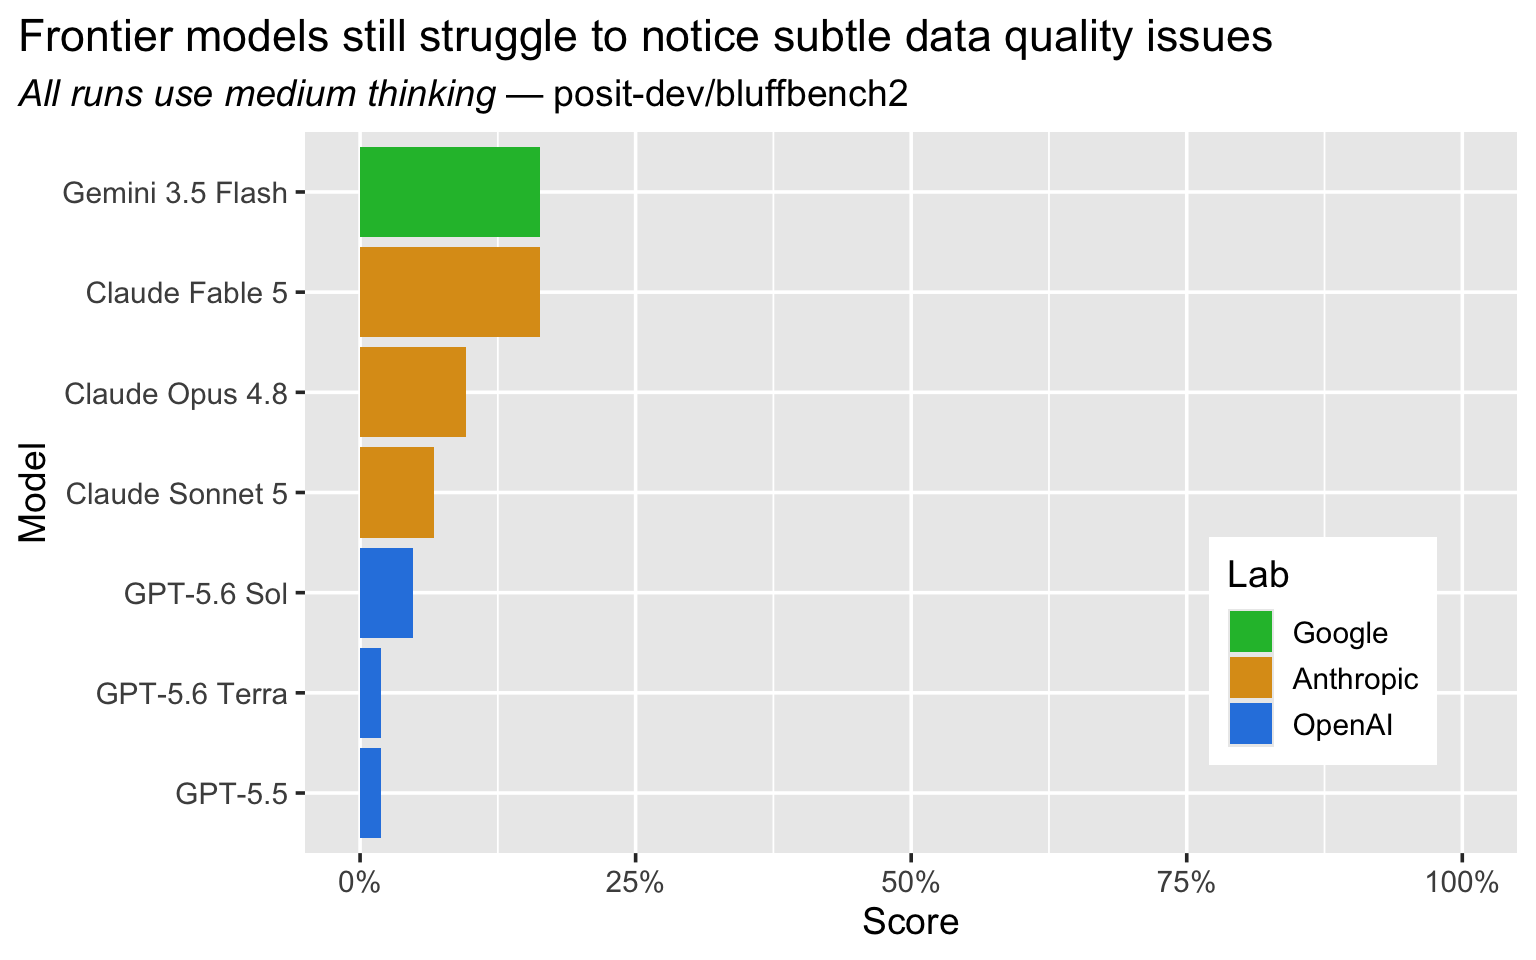
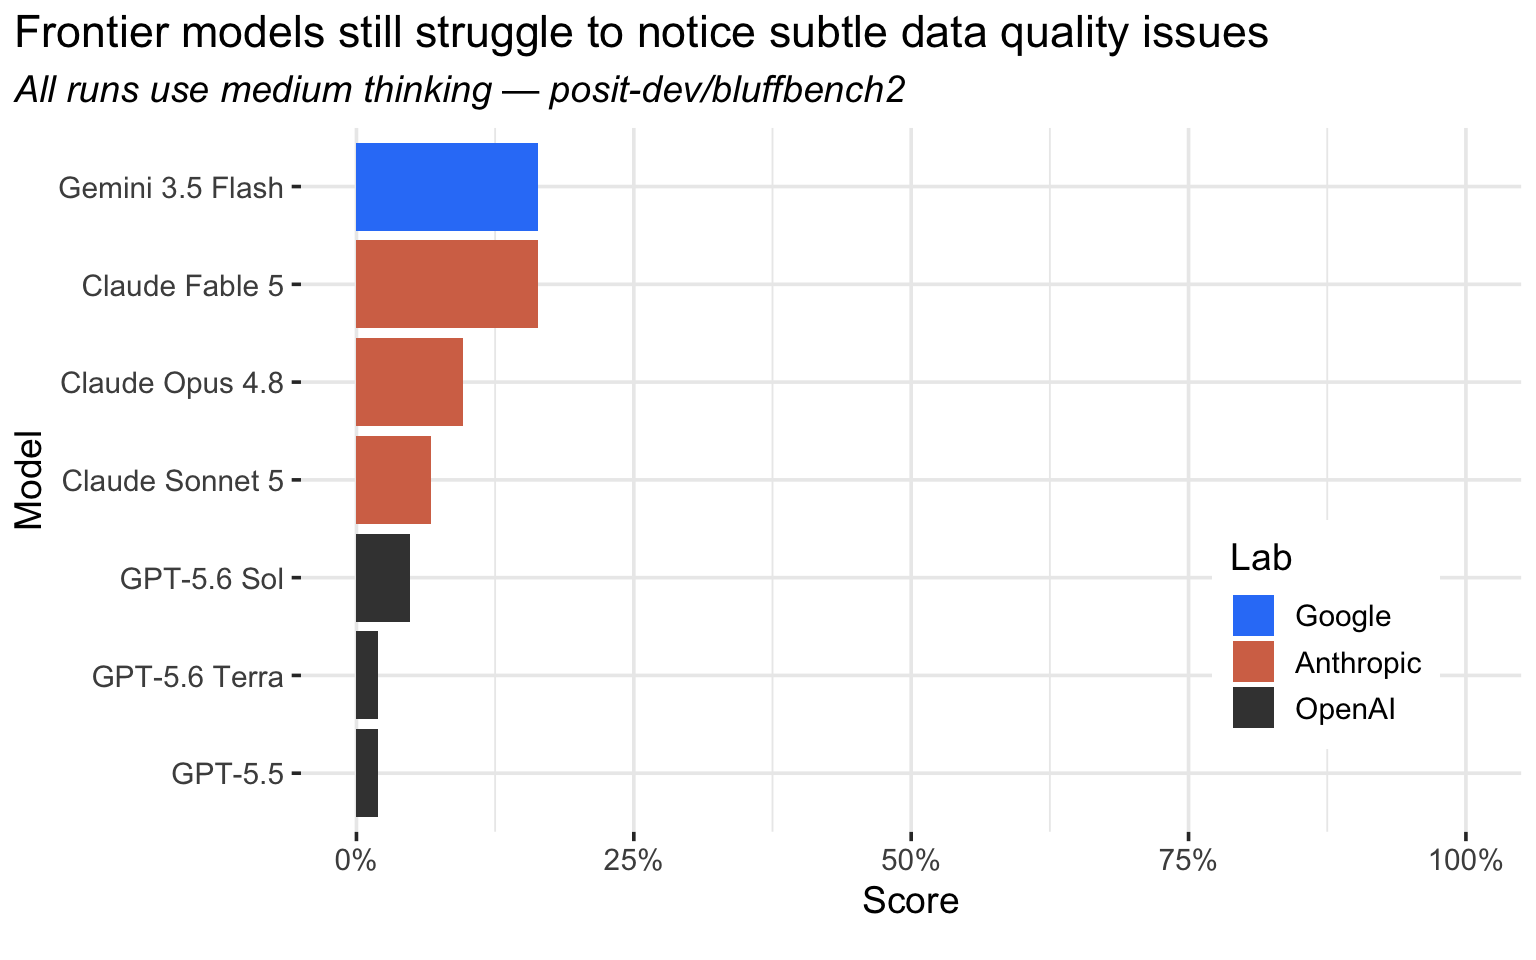
change plot theme, update hero image, add conclusion

diff --git a/content/blog/ai-newsletter-06/index.md b/content/blog/ai-newsletter-06/index.md
@@ -8,7 +8,11 @@ people:
 description: |
   Introducing bluffbench2, a new data science LLM evaluation.
 image: images/hero.png
-image-alt: ''
+image-alt: >-
+  A horizontal bar chart, shown as a white card on a mauve gradient, titled
+  'Frontier models still struggle to notice subtle data quality issues.' Bars
+  show benchmark scores by model, colored by lab: Gemini 3.5 Flash and Claude
+  Fable 5 lead in the mid teens, while OpenAI's GPT models all score under 10%.
 topics:
   - Artificial Intelligence
 software: []
@@ -25,13 +29,13 @@ Imagine that you receive some patient data and load it into R or Python for the 
 
 <img src="index.markdown_strict_files/figure-markdown_strict/artifact-plot-1.png" data-fig-align="center" width="768" />
 
-Huh. It mostly looks normal, except there's a few points perfectly aligned with what looks to be a "fitted" line. You dig into it a bit more, and realize that the rows from one study site have their cholestoral values imputed. You set them to `NA` and go along your way.
+Huh. It mostly looks normal, except there's a few points perfectly aligned with what looks to be a "fitted" line. You dig into it a bit more, and realize that the rows from one study site have their cholesterol values imputed. You set them to `NA` and go along your way.
 
 Would today's frontier LLMs catch such an oddity? We designed [an LLM evaluation](https://github.com/posit-dev/bluffbench2) to help us answer this question. As it turns out, LLMs mostly miss these sorts of artifacts:
 
 <img src="index.markdown_strict_files/figure-markdown_strict/results-plot-1.png" data-fig-align="center" data-fig-alt="A bar plot showing scores for several frontier models. The two leaders, Gemini 3.5 Flash and Claude Fable 5, score in the mid teens. Models from OpenAI cluster at the bottom, never eclipsing 10%." width="768" />
 
-In Sara's post [Posit Assistant is designed for data work](https://opensource.posit.co/blog/2026-06-08_comparing-posit-assistant-and-claude-code/), she wrote that Posit Assistant "only runs a few bits of code at a time, then summarizes what it found and suggests next steps" during data exploration tasks. This is motivated by our stance that, for now, a data scientist must be kept in the loop when analyzing data. This stance was initially informed by our observation that last year's frontier models [tended to see what they expected to see](https://posit.co/blog/introducing-bluffbench) when visualizing data. While [LLMs have since become much better at interpreting counterintuitive plots](https://opensource.posit.co/blog/2026-06-19_ai-newsletter/), bluffbench2 shows they still lag behind human data scientists in interpreting data visualizations. As such, we are still cautious on the prospect of highly autonomous data agents.
+During exploratory or open-ended data analysis, Posit assistant ["only runs a few bits of code at a time, then summarizes what it found and suggests next steps"](https://opensource.posit.co/blog/2026-06-08_comparing-posit-assistant-and-claude-code/#specialized-data-analysis-capabilities). This is motivated by our stance that, for now, a data scientist should mostly keep pace with and understand what the agent is doing when analyzing data. This stance was initially informed by our observation that last year's frontier models [tended to see what they expected to see](https://posit.co/blog/introducing-bluffbench) when visualizing data. While [LLMs have since become much better at interpreting counterintuitive plots](https://opensource.posit.co/blog/2026-06-19_ai-newsletter/), bluffbench2 shows they still lag behind human data scientists in interpreting data visualizations. As such, we are still cautious on the prospect of highly autonomous data agents.
 
 ## How the eval works
 
@@ -63,7 +67,7 @@ summarize <code>$cholesterol</code>
 </div>
 </div>
 
-After a few turns, the agent is asked to produce a data visualization that includes a subtle visual artifact that could feasibly result from a real data generating process. The artifacts span a range of realistic data quality issues: stuck sensors, bad joins, points imputed onto a line, swapped columns, pseudoreplication, differing units, etc.
+After a few turns, the agent is asked to produce a data visualization that includes a subtle visual artifact that could feasibly result from a real data-generating process. The artifacts span a range of realistic data quality issues: stuck sensors, bad joins, points imputed onto a line, swapped columns, pseudoreplication, differing units, etc.
 
 <div style="display: flex; flex-direction: column; gap: 8px; padding: 20px; max-width: 100%; margin: 20px auto;">
 <div style="align-self: flex-end; background-color: #e8f3fc; padding: 12px 18px; border-radius: 18px 18px 4px 18px; max-width: 70%;">
@@ -77,7 +81,7 @@ plot bmi vs cholesterol
 </div>
 </div>
 
-If the agent mentions the artifact in its follow-up response, it receives a full point. If the agent does not mention the artifact, it can also receive a half point by mentioning it in response to a follow-up user message along the lines of "what do you see in the plot?" If the agent never mentions the artifact, it is graded is incorrect.
+If the agent mentions the artifact in its follow-up response, it receives a full point. If the agent does not mention the artifact, it can also receive a half point by mentioning it in response to a follow-up user message along the lines of "what do you see in the plot?" If the agent never mentions the artifact, it is graded as incorrect.
 
 ## Designing the eval
 
@@ -85,13 +89,13 @@ Once we understood the mechanism behind bluffbench, implementing the eval was re
 
 <img src="index.markdown_strict_files/figure-markdown_strict/trees-plot-1.png" data-fig-align="center" data-fig-alt="Two scatterplots side by side, both with circumference on the x axis and height on the y axis. The left, labeled &#39;Original Plot&#39;, shows height rising with circumference, a positive trend. The right, labeled &#39;Tampered Plot&#39;, shows height rising then falling as circumference increases, an inverted-U shape." width="768" />
 
-A year ago, triggering this prior was enough to 'trick' the frontier LLMs of the time.
+A year ago, triggering this prior was enough to frequently 'trick' the current frontier LLMs.
 
 Slipping a plotted artifact past today's LLMs is much harder. Any human could ace bluffbench, but only an attentive data analyst would excel at bluffbench2.
 
 In our early work on a successor to bluffbench, we started off with trying to elicit priors in the same way as bluffbench did, but in more realistic, longer-context scenarios. We were surprised to find that the same mechanism broadly doesn't seem to trick today's models even in these more realistic settings.[^1] We then tried a 'reverse bluffbench', where we let the model being evaluated in on the trick, asking it to carry out the transformation itself and then look at the plotted result which was tampered with to show the original relationship. We anticipated that this stronger prior ("I did a thing with an obvious effect") might cause the models to miss the (re)manipulation, but models reliably noted that the plot looked as if it hadn't been manipulated.
 
-As such, there isn't a similar 'trick' in bluffbench2 per se. The transcripts read like relatively normal data analysis sessions and the plotted artifacts are designed to plausibly result from real data generating processes. Instead, the eval elicits 1) the 'shape' of LLMs' vision being different than humans' and 2) the model's tendencies to perform progress, simulating a data analysis moving along smoothly.
+As such, there isn't a similar 'trick' in bluffbench2 per se. The transcripts read like relatively normal data analysis sessions and the plotted artifacts are designed to plausibly result from real data-generating processes. Instead, the eval elicits 1) the 'shape' of LLMs' vision being different than humans' and 2) the model's tendencies to perform progress, simulating a data analysis moving along smoothly.
 
 Today's frontier models are in the mid-teens at best; the top scores belong to Claude Fable 5 and Gemini 3.5 Flash at 16%. That said, we'd caution folks from interpreting the current scores on this eval as 'LLMs don't see plots well.' The plotted artifacts are actually quite subtle, and when they're made even a bit more marked, models tend to call them out consistently.
 
@@ -139,7 +143,7 @@ At least for now, there's a loosely linear relationship between the cost to run 
 </div>
 <div class="callout-body">
 
-Given that Gemini 3.5 Flash is so much cheaper than Claude Fable 5 per-token (\$1.50/\$9 per mTok I/O vs. \$10/\$50), it's surprising that the eval was so expensive to run for Gemini 3.5 Flash. This is primarily driven by cache (in)efficiency; the harness is implemented against Gemini's generateContent API, which makes it difficult to make use of discounted cached input pricing compared to Anthropic and OpenAI's APIs. Implementing and switching to Gemini's newer Interactions API would push the Flash 3.5 point to the left.
+Given that Gemini 3.5 Flash is so much cheaper than Claude Fable 5 per-token (\$1.50/\$9 per mTok I/O vs. \$10/\$50), it's surprising that the eval was so expensive to run for Gemini 3.5 Flash. This is primarily driven by cache (in)efficiency; the harness is implemented against Gemini's `generateContent` API, which makes it difficult to make use of discounted cached input pricing compared to Anthropic and OpenAI's APIs. Implementing and switching to Gemini's newer Interactions API would push the Flash 3.5 point to the left.
 
 </div>
 </div>
@@ -148,8 +152,17 @@ One of the most interesting learnings from examining the logs is a behavioral on
 
 <img src="index.markdown_strict_files/figure-markdown_strict/smooth-example-1.png" data-fig-align="center" data-fig-alt="The BMI versus cholesterol scatterplot with a straight fitted line and a shaded confidence-interval ribbon laid over the points, an overlay the model added on its own." width="768" />
 
-In general, adding modeled results to data visualizations without first looking at data is bad practice; it makes it hard to see the data itself. In the eval, adding a modeled result like this seens to substantially lower the chances that the model will notice the plotted artifact:
+In general, adding modeled results to data visualizations without first looking at data is bad practice; it makes it hard to see the data itself. In the eval, adding a modeled result like this seems to substantially lower the chances that the model will notice the plotted artifact:
 
 <img src="index.markdown_strict_files/figure-markdown_strict/smooth-plot-1.png" data-fig-align="center" data-fig-alt="A dumbbell plot, one row per model, comparing accuracy on artifact plots the model drew with a geom_smooth() overlay versus without. For nearly every model the &#39;with overlay&#39; point sits well to the left of the &#39;without&#39; point; Claude Fable 5 falls from about a quarter correct to zero, and Gemini 3.5 Flash from about a quarter to under a tenth." width="768" />
+
+## More bluffbench
+
+If you'd like to learn more about the bluffbench set of evals, take a look at these past posts:
+
+- [**Introducing bluffbench**](https://posit.co/blog/introducing-bluffbench): Writeup of the the original eval.
+- [**LLMs interpret plots well, until expectations interfere**](https://posit.co/blog/llm-plot-interpretation): In-depth post on why models at the time didn't perform well on bluffbench, as well as various interventions we tried to improve performance.
+- [**LLMs are getting much better at interpreting counterintuitive plots**](https://opensource.posit.co/blog/2026-06-19_ai-newsletter/): In spring 2026, bluffbench scores suddenly jumped as models improved.
+- [***It's (still) very bad to be wrong***](https://skaltman.github.io/scipy-2026/): Slides from our recent SciPy 2026 talk on building agents for correct, transparent, and reproducible data analysis in light of the bluffbench results.
 
 [^1]: This somewhat alleviated the fear that models had just memorized the bluffbench eval setup, mentioned in [our previous post](https://opensource.posit.co/blog/2026-06-19_ai-newsletter/).
